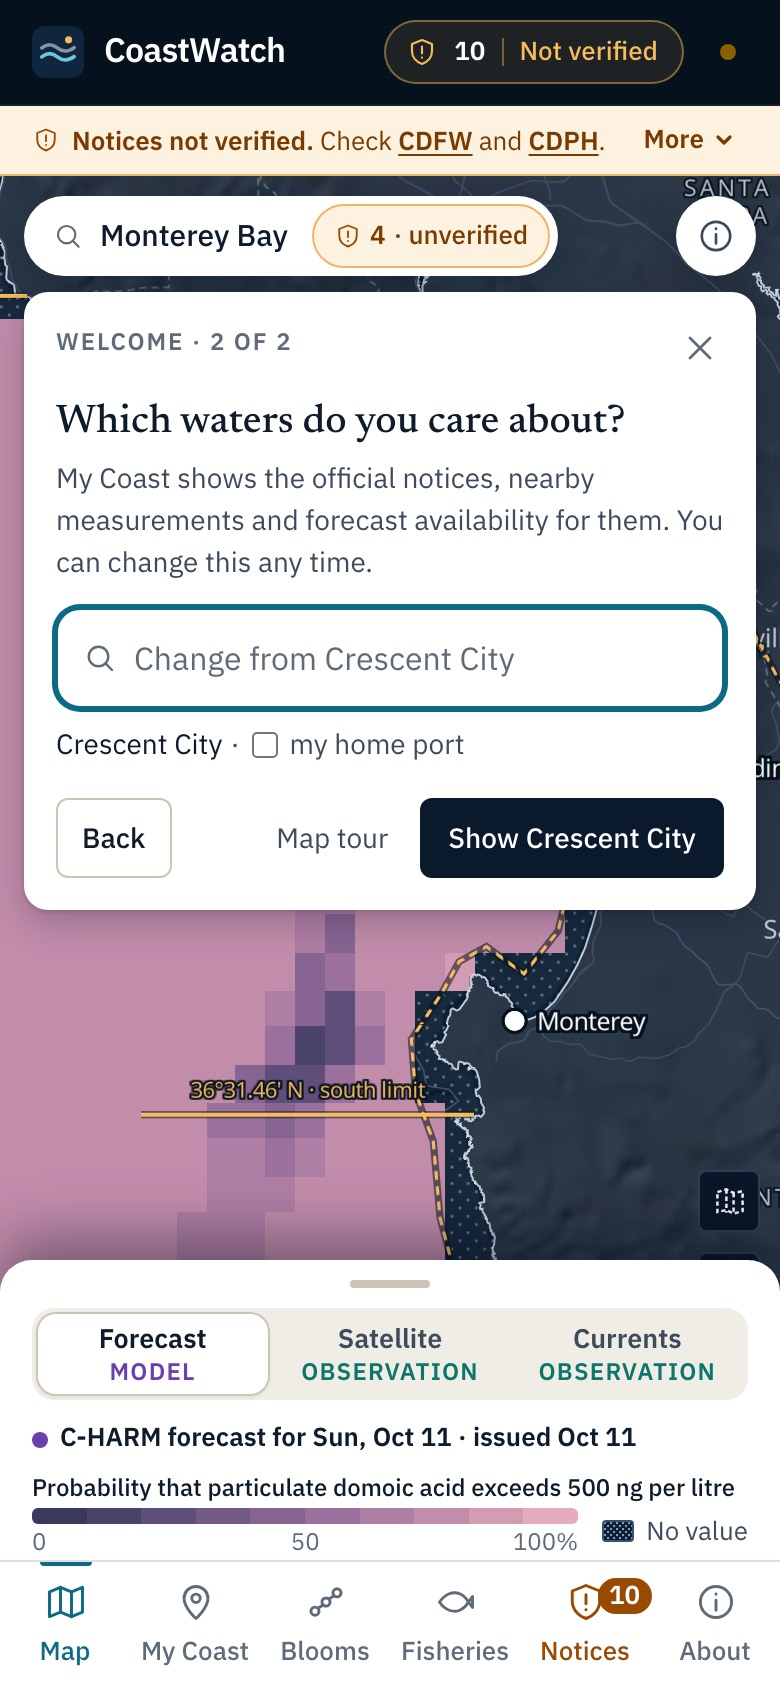
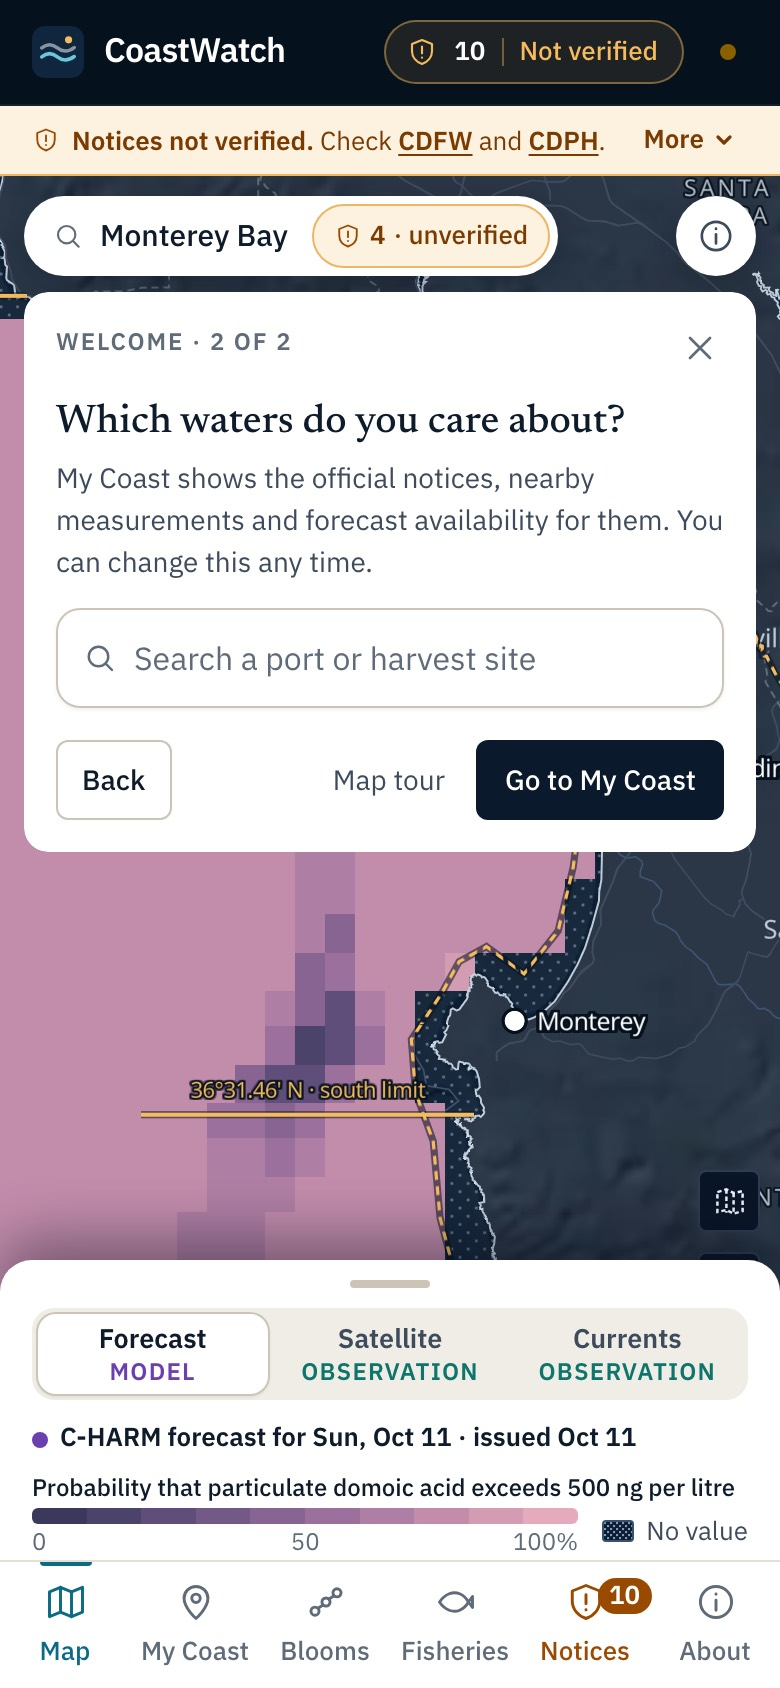
fix(welcome): 'Go to My Coast'; final review at five widths on production data

Changed region(s): [[0.0308, 0.3389, 0.9846, 0.5545]]

diff --git a/coastwatch-web/src/components/map/IntroCard.tsx b/coastwatch-web/src/components/map/IntroCard.tsx
@@ -244,7 +244,7 @@ export function IntroCard({ className = "", onTour, places, suppressed = false }
                     className="min-h-[40px] rounded-md bg-navy-900 px-3.5 text-[14px] font-medium text-white hover:bg-navy-800"
                     data-testid="intro-to-coast"
                   >
-                    {place ? `Show ${place.name}` : "Open My Coast"}
+                    {place ? `Show ${place.name}` : "Go to My Coast"}
                   </button>
                 </div>
               </div>

diff --git a/docs/coastwatch/30-welcome.md b/docs/coastwatch/30-welcome.md
@@ -44,6 +44,18 @@ The existing first-visit card on the Ocean Map becomes a two-step welcome. It is
 | Research: where to start | [1440](welcome/d1440-6-research.jpg) | [390](welcome/m390-6-research.jpg) |
 | Research: My Coast, measurements first | [1440, full page](welcome/d1440-7-research-coast.jpg) | [390](welcome/m390-7-research-coast.jpg) |
 | About: change or reset | [1440](welcome/d1440-8-about-switch.jpg) | [390](welcome/m390-8-about-switch.jpg) |
+| Small screens: welcome | [1024](welcome/d1024-1-welcome.jpg) | [360](welcome/m360-1-welcome.jpg) · [320](welcome/m320-1-welcome.jpg) (the card scrolls on a 640 px-tall screen) · [360, step 2](welcome/m360-2-commercial-waters.jpg) |
+| "Just exploring" opens the nine-step tour | [1024](welcome/d1024-9-tour.jpg) | [390](welcome/m390-9-tour.jpg) |
+
+**Final review (2026-10-12, production data, after My Coast merged):** at 320, 360, 390, 1024 and 1440 px:
+- the notices pill or tab stays uncovered and opens the notices while the welcome is showing, and the welcome is still there afterwards;
+- the last choice is never covered;
+- nothing scrolls sideways;
+- "Just exploring" starts step 1 of 9;
+- a deep link (`/?region=…&port=…`) shows no welcome;
+- on My Coast, a link's `for=` wins over a saved purpose, the saved purpose's default applies without one, and "Set up for" is visible.
+
+The phone's 390 px welcome and step 2 images above were retaken after the small-phone change.
 
 ## Tests
 
